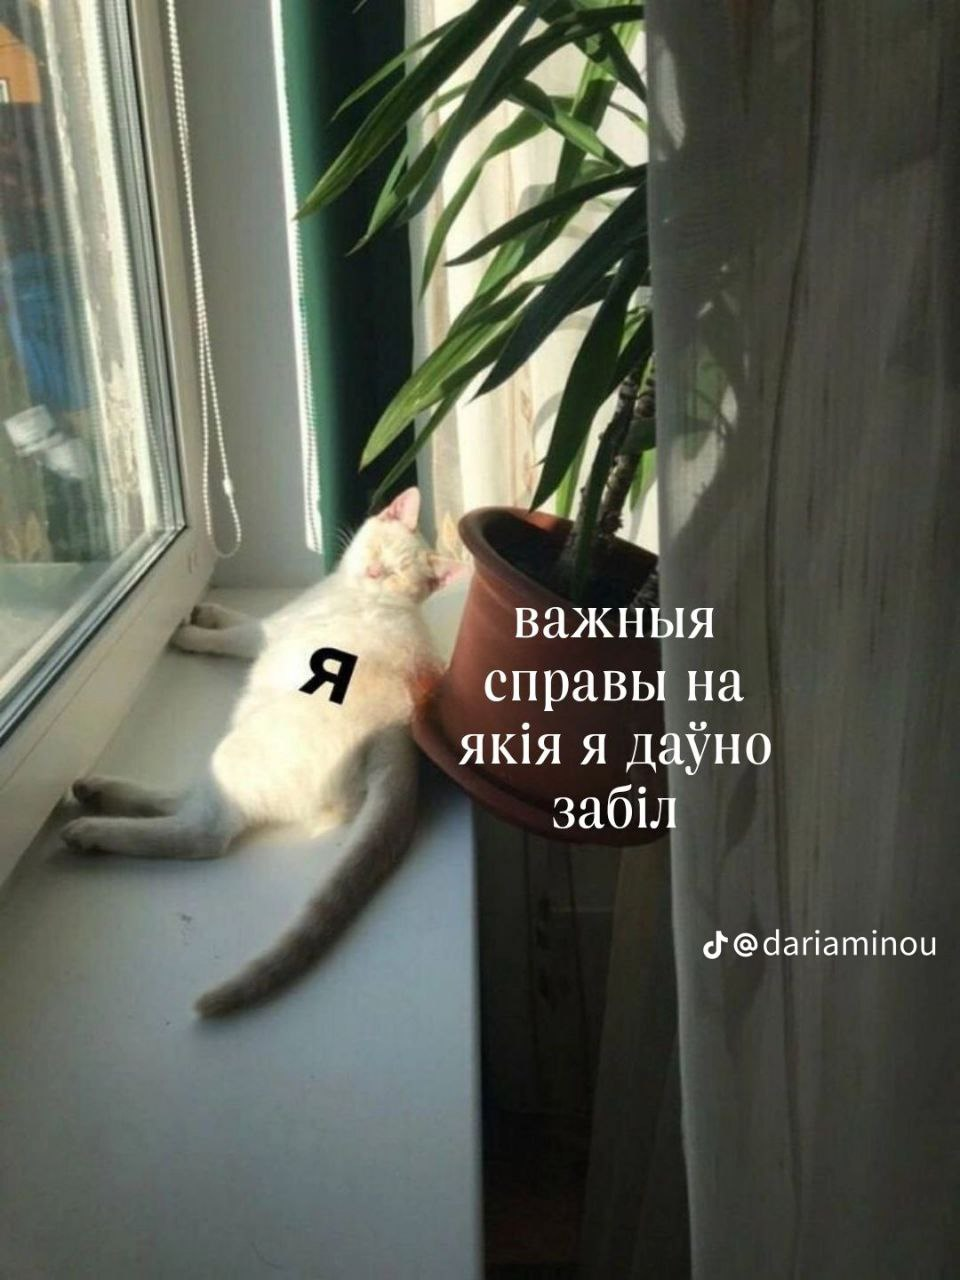
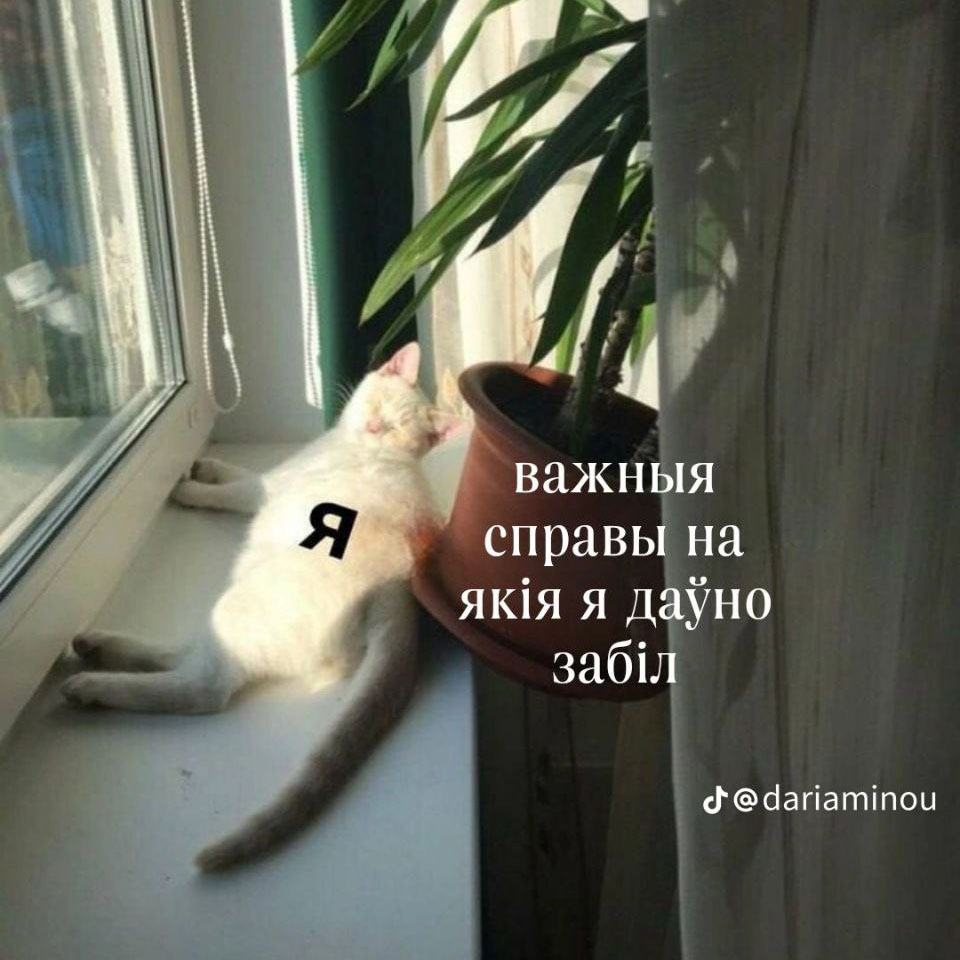
fix: fix slides display (Sun, Sep 17, 2023 03:37:35 PM)

diff --git a/cssMemeSlider/style.css b/cssMemeSlider/style.css
@@ -19,16 +19,20 @@
 
 .slider__items {
   display: flex;
+  align-items: center;
   width: 1000%;
+  height: 100%;
 }
 
 .slider__item {
   width: 20%;
-  max-height: 80vh;
+  height: 100%;
 }
 
 .slider__image {
   width: 100%;
+  height: 100%;
+  object-fit: contain;
 }
 
 .input {
